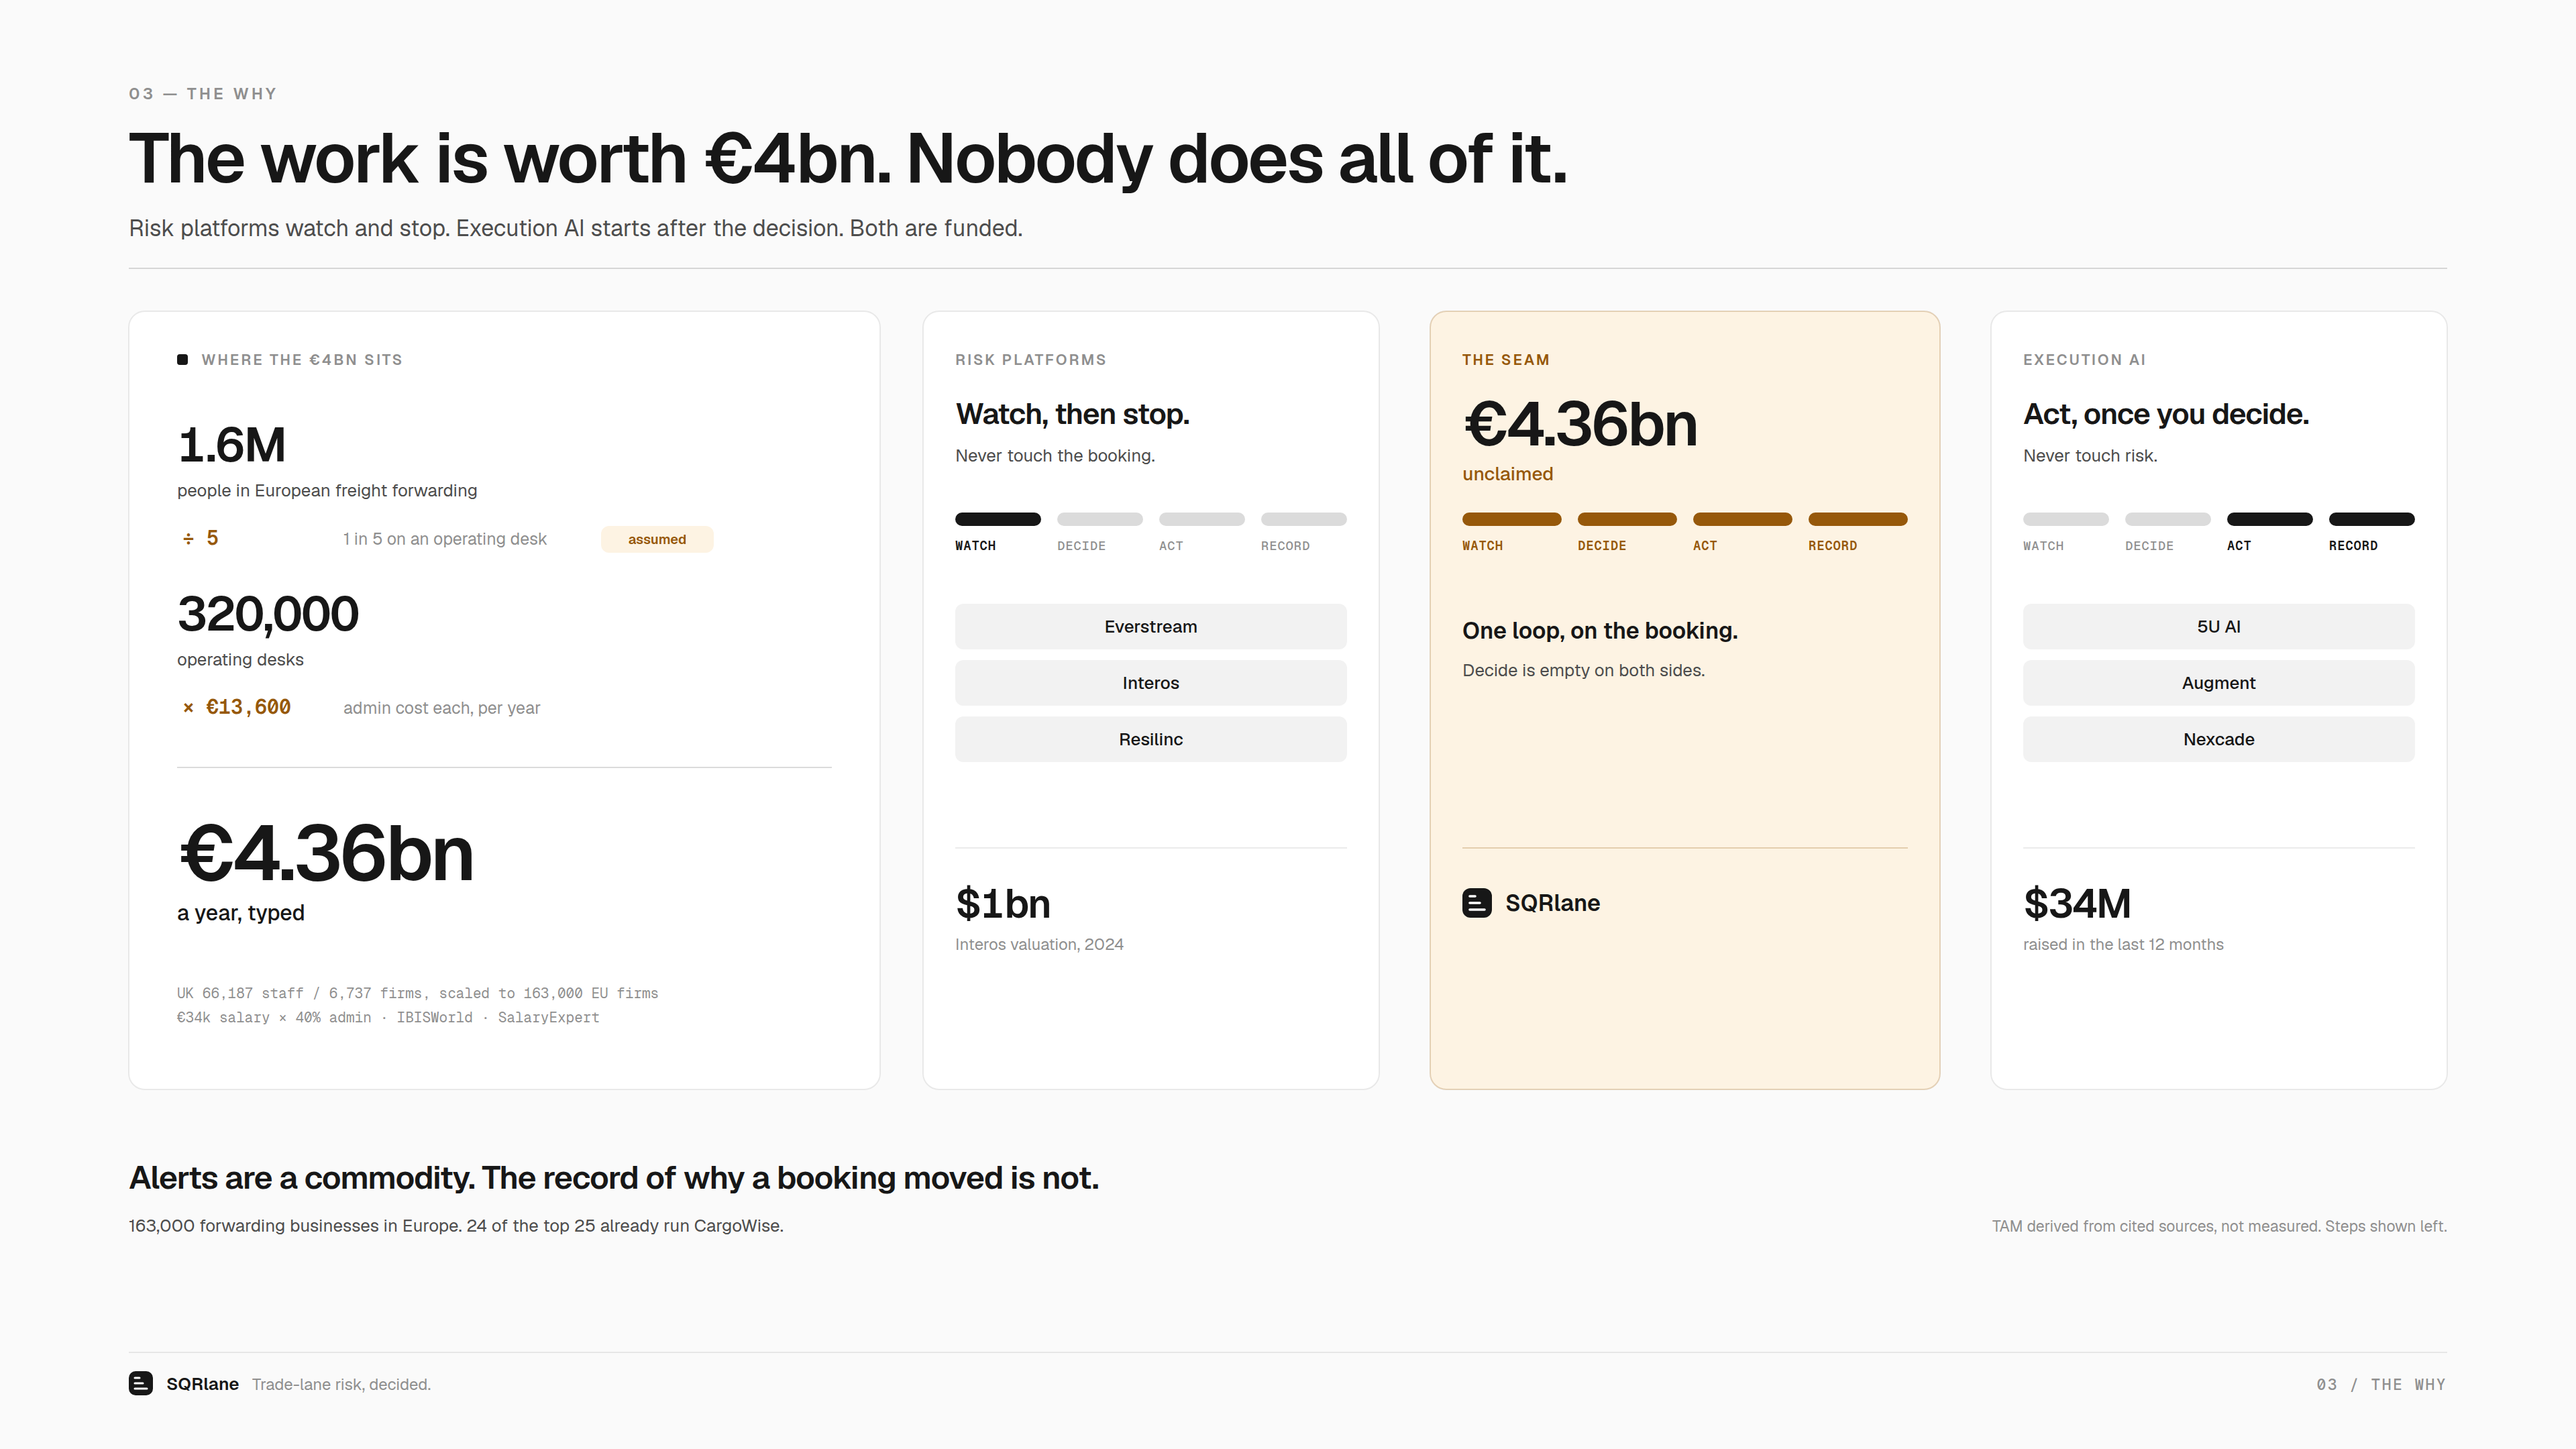
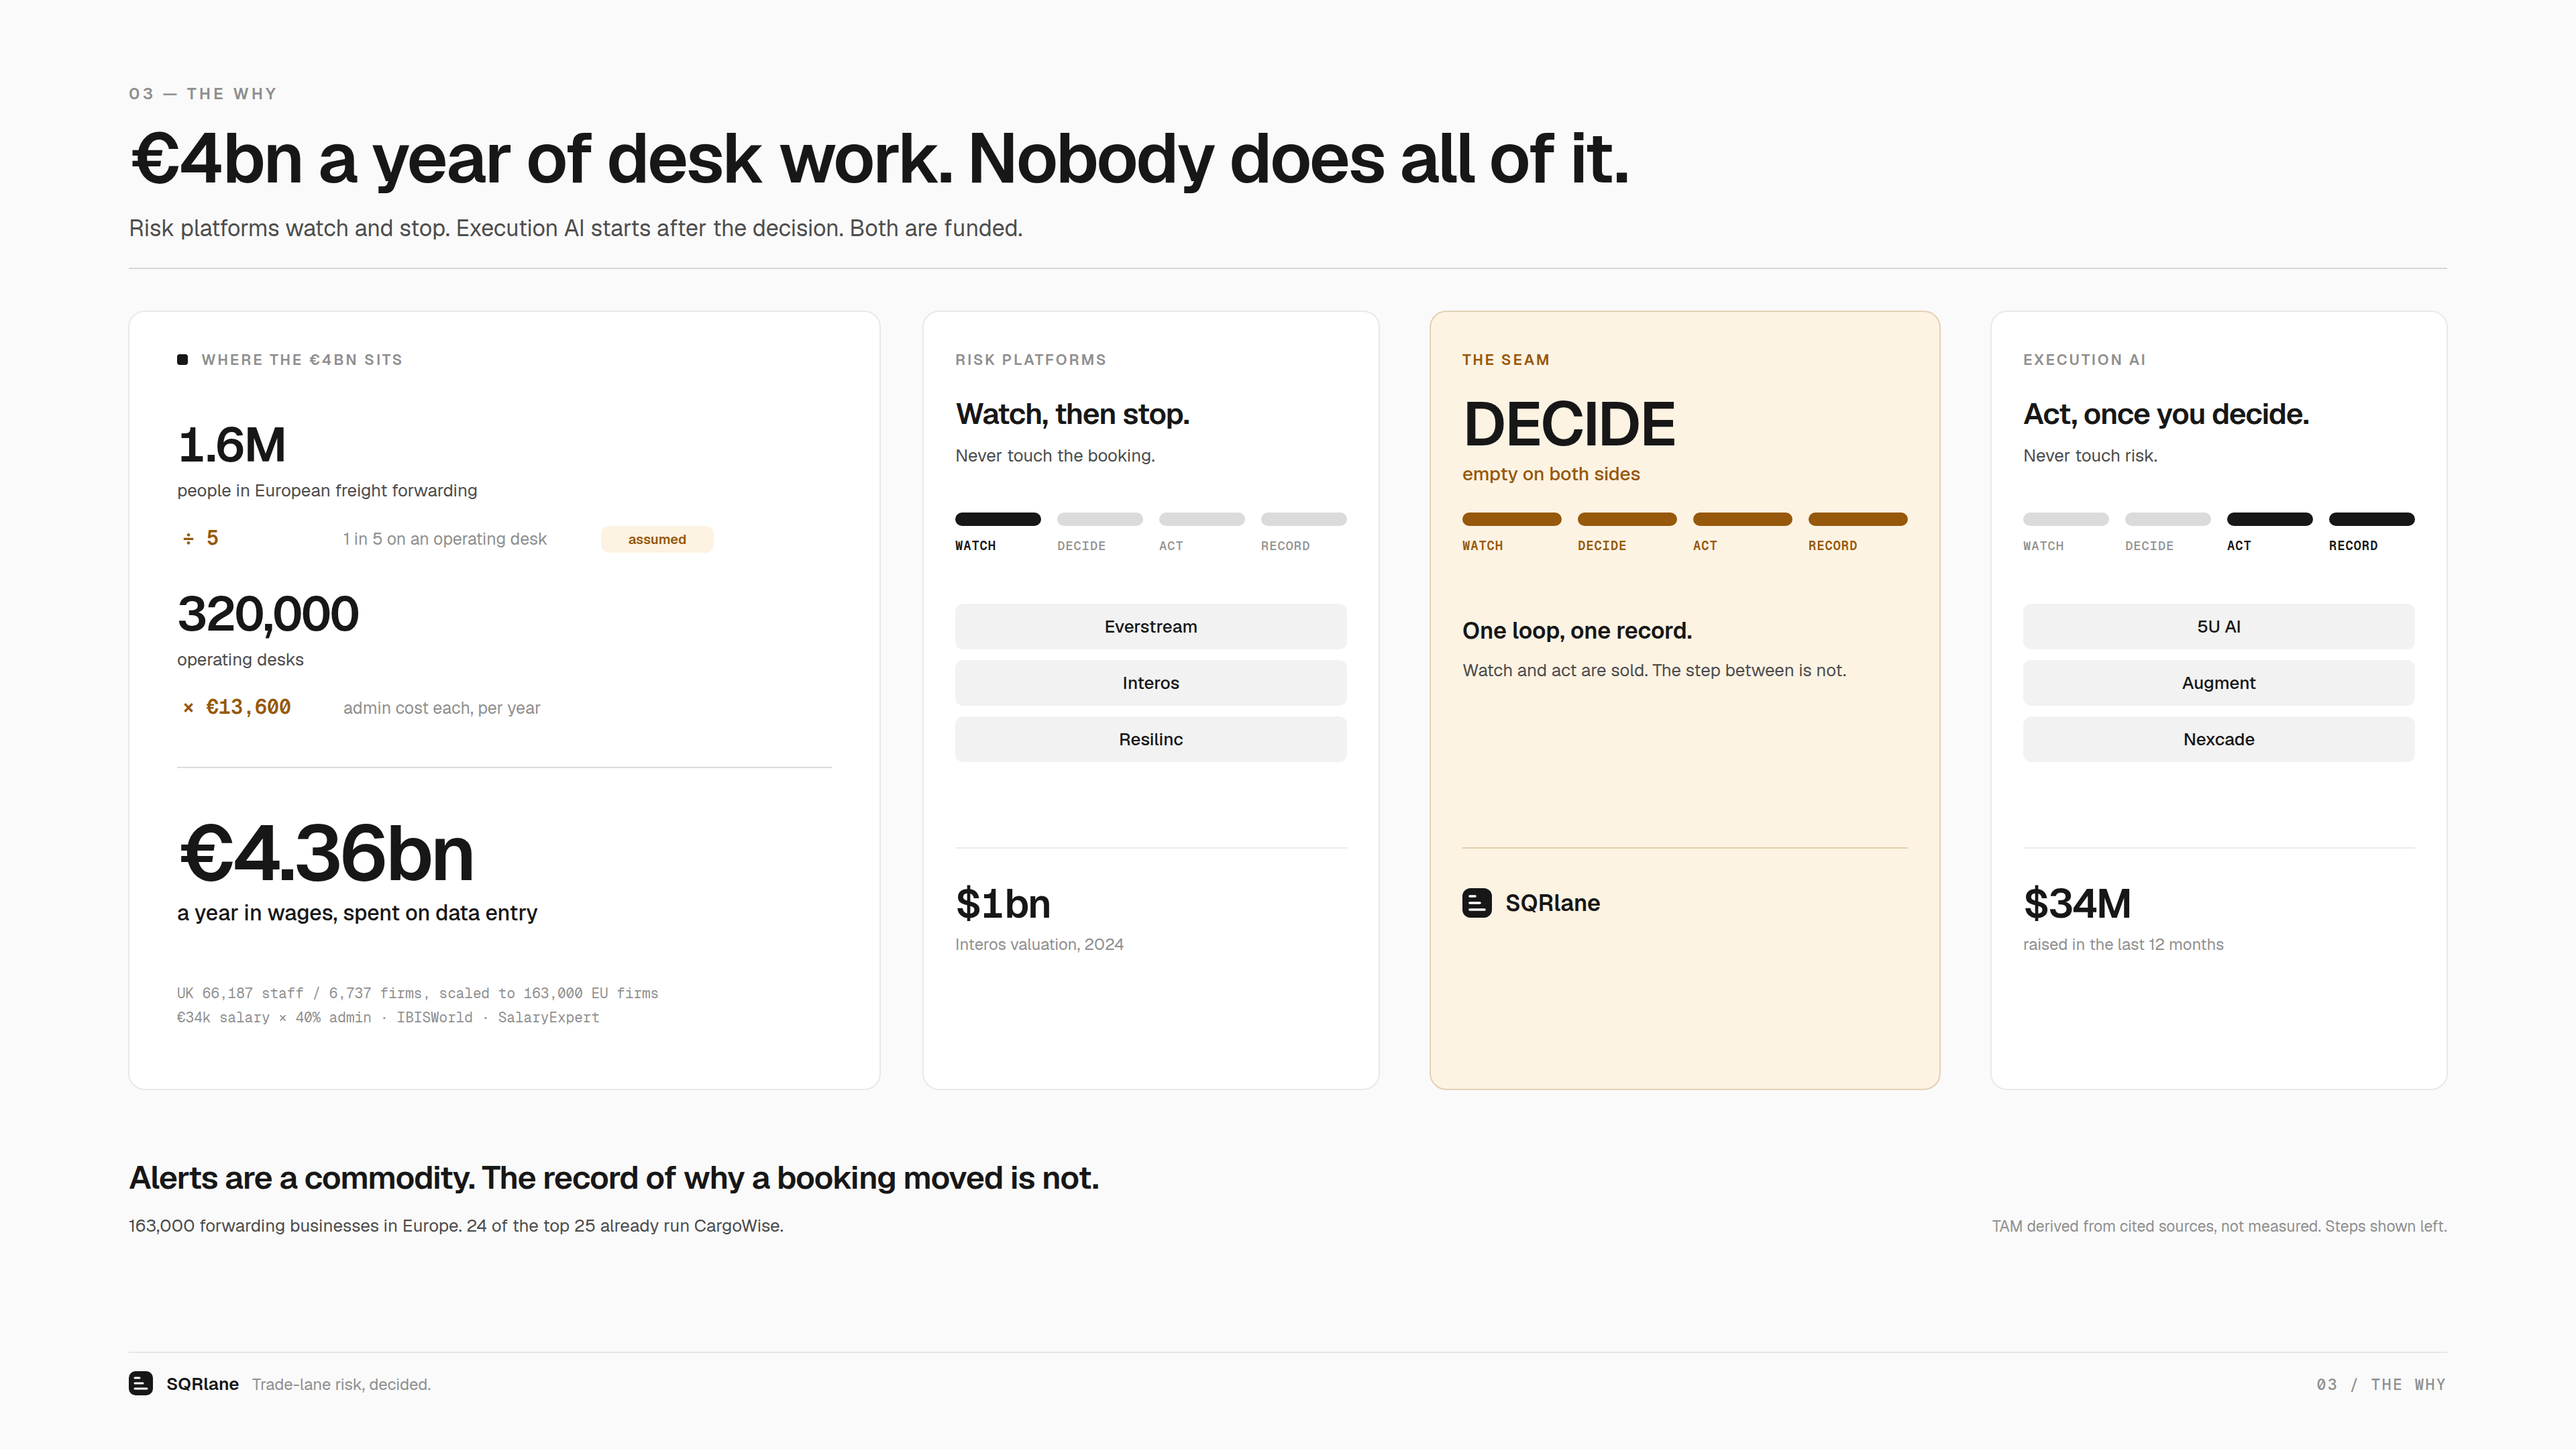
Deck: say what the EUR 4.36bn is, and stop the seam column overclaiming
"A year, typed" read as a participle hanging off "a year" and never said the
figure is wages. It now says a year in wages, spent on data entry - annual,
a cost, and what for. The headline drops "worth", which left open worth to
whom, for the plainer EUR 4bn a year of desk work.

The bigger fix is underneath. The seam column repeated the EUR 4.36bn and
labelled it unclaimed, which is not true: execution AI sells into exactly that
admin pool. What nobody owns is the step between watching and acting, so the
column now leads on DECIDE, empty on both sides, and says so - watch and act
are sold, the step between is not. That also stops the same number appearing
twice on one slide doing two different jobs.

Claude-Session: https://claude.ai/code/session_01CuQZ1wNRwUerJJo7pbi7JH

diff --git a/deck/build_slide_03.py b/deck/build_slide_03.py
@@ -16,7 +16,7 @@ from deckkit import *
 
 s = Slide()
 s.header("03 — THE WHY",
-         "The work is worth €4bn. Nobody does all of it.",
+         "€4bn a year of desk work. Nobody does all of it.",
          "Risk platforms watch and stop. Execution AI starts after the decision. Both are funded.")
 
 TY, TH = 232, 580
@@ -52,7 +52,7 @@ s.line(lx, TY + 340, LX + LW - 36, TY + 340, BORDER_STRONG)
 
 s.raw(f'<text x="{lx}" y="{TY+424}" font-size="58" font-weight="600" fill="{FG}" '
       f'letter-spacing="-2" class="num">€4.36bn</text>')
-s.text(lx, TY + 454, "a year, typed", 16, 500, FG)
+s.text(lx, TY + 454, "a year in wages, spent on data entry", 16, 500, FG)
 s.text(lx, TY + 512, "UK 66,187 staff / 6,737 firms, scaled to 163,000 EU firms", 10.5, 400, FAINT, cls="mono")
 s.text(lx, TY + 530, "€34k salary × 40% admin · IBISWorld · SalaryExpert", 10.5, 400, FAINT, cls="mono")
 
@@ -102,11 +102,11 @@ s.card(C2, TY, W2, TH, fill=AMBER_BG, stroke="#96580a3d")
 tx = C2 + 24
 s.text(tx, TY + 40, "THE SEAM", 11, 600, AMBER, ls=1.4)
 s.raw(f'<text x="{tx}" y="{TY+100}" font-size="46" font-weight="600" fill="{FG}" '
-      f'letter-spacing="-1.6" class="num">€4.36bn</text>')
-s.text(tx, TY + 126, "unclaimed", 14, 500, AMBER)
+      f'letter-spacing="-1.6">DECIDE</text>')
+s.text(tx, TY + 126, "empty on both sides", 14, 500, AMBER)
 strip(C2, W2, [1, 1, 1, 1], on=AMBER)
-s.text(tx, TY + 244, "One loop, on the booking.", 17, 600, FG)
-s.text(tx, TY + 272, "Decide is empty on both sides.", 13, 400, MUTED)
+s.text(tx, TY + 244, "One loop, one record.", 17, 600, FG)
+s.text(tx, TY + 272, "Watch and act are sold. The step between is not.", 13, 400, MUTED)
 s.line(tx, TY + 400, C2 + W2 - 24, TY + 400, "#96580a3d")
 s.raw(f'<rect x="{tx}" y="{TY+430}" width="22" height="22" rx="6" fill="{FG}"/>')
 s.raw(f'<path d="M{tx+5.5} {TY+446}h11 M{tx+5.5} {TY+441}h7.5 M{tx+5.5} {TY+436}h4" '
